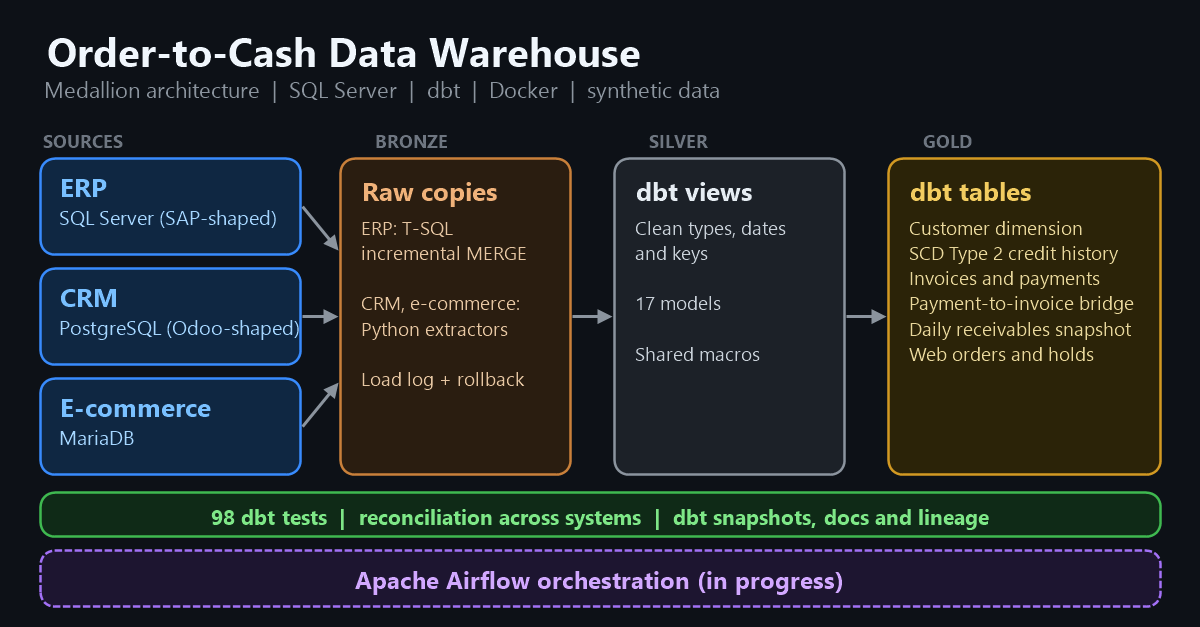
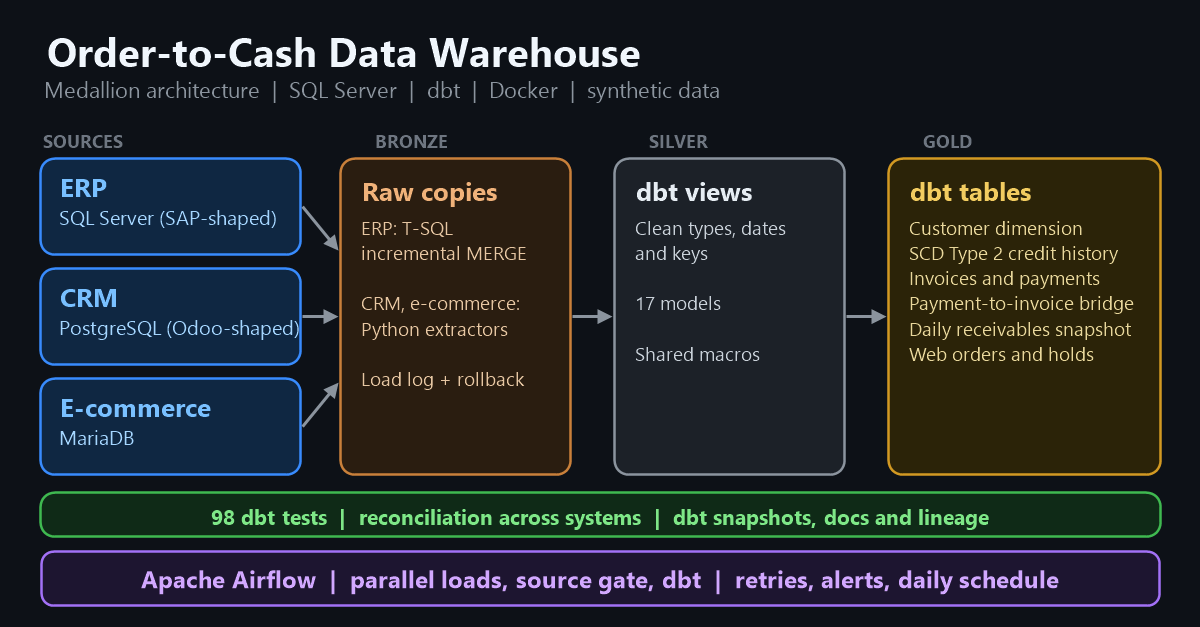
README: document the daily load DAG, tests and CI; update the architecture diagram

Changed region(s): [[0.0308, 0.8788, 0.9867, 0.9697]]

diff --git a/README.md b/README.md
@@ -1,5 +1,7 @@
 # Order-to-Cash Data Warehouse
 
+[![CI](https://github.com/romloc11/order-to-cash-dwh/actions/workflows/ci.yml/badge.svg)](https://github.com/romloc11/order-to-cash-dwh/actions/workflows/ci.yml)
+
 A SQL Server data warehouse built with a **Bronze / Silver / Gold** (medallion) architecture, transformed with **dbt**, and fed by **three source systems on three different engines**: an ERP (SAP-shaped tables, SQL Server), a CRM (Odoo-shaped tables, PostgreSQL) and an e-commerce database (MariaDB).
 
 It starts with the cash end of order-to-cash, **accounts receivable**; sales and logistics are planned as new marts on the same warehouse.
@@ -8,7 +10,7 @@ An **anonymized re-creation** of a data warehouse I built and run at work. It is
 
 Everything here runs locally with Docker.
 
-> **Status: work in progress.** Sources, Bronze, Silver, Gold, tests and documentation are done. Airflow is installed and running with a health-check DAG; **the next step is the DAG that orchestrates the daily load** (three source loads in parallel, then dbt). See the [roadmap](#roadmap).
+> **Status: the core pipeline is complete.** Sources, Bronze, Silver, Gold, tests and documentation are done, and an Airflow DAG runs the daily load on a schedule: three source loads in parallel, a gate on all of them, then `dbt snapshot` and `dbt build`. Airflow runs locally in Docker; in production it would run on an always-on server. What is still open is in the [roadmap](#roadmap).
 
 ## What it demonstrates
 
@@ -26,11 +28,12 @@ Everything here runs locally with Docker.
 | dbt tests, reconciliation tests and failure storage | `dbt/tests/`, `dbt/models/*/_*.yml` |
 | dbt snapshots for attributes the source does not log | `dbt/snapshots/` |
 | Generated documentation and lineage | [dbt documentation site](https://romloc11.github.io/order-to-cash-dwh/dbt/), [docs/lineage.md](docs/lineage.md) |
-| Orchestration with Apache Airflow (in progress) | `airflow/` |
+| Orchestration with Apache Airflow: parallel loads, source gate, dbt, retries, failure alerts, daily schedule | `airflow/dags/` |
+| DAG structure tests (pytest) and CI with GitHub Actions | `tests/`, `.github/workflows/ci.yml` |
 
 ## Architecture
 
-![Architecture: three sources into Bronze, Silver and Gold, with dbt tests and Airflow orchestration in progress](docs/architecture.png)
+![Architecture: three sources into Bronze, Silver and Gold, with dbt tests and Airflow orchestration](docs/architecture.png)
 
 How the Gold tables depend on each other: [docs/lineage.md](docs/lineage.md).
 
@@ -91,7 +94,7 @@ docker compose up -d --build  # generates data, loads the three sources, creates
 
 SQL Server listens on `localhost:1433` (user `sa`), PostgreSQL on `localhost:5432` (database `crm`, user `crm`) and MariaDB on `localhost:3306` (database `ecommerce`, user `root`).
 
-Load Bronze (today by hand; the Airflow DAG will replace these steps):
+Load Bronze by hand (the Airflow DAG below runs these same steps):
 
 ```bash
 docker compose exec sqlserver bash -c '/opt/mssql-tools18/bin/sqlcmd -C -S localhost -U sa -P "$MSSQL_SA_PASSWORD" -d dwh -Q "EXEC bronze.load_erp"'
@@ -118,6 +121,28 @@ Start Airflow (UI at <http://localhost:8080>, no login, local use only):
 docker compose --profile orchestration up -d airflow
 ```
 
+The `dwh_daily_load` DAG runs every day at 06:00 UTC, and you can trigger it from the UI at any time:
+
+```
+load_erp ──┐
+load_crm ──┼──> loads_done ──> verify_sources ──> dbt_snapshot ──> dbt_build
+load_ecommerce ┘
+```
+
+- The three loads run in parallel and are retried twice, 30 seconds apart. They are idempotent, so a retry cannot duplicate data. The dbt steps are not retried, because a failing data test would fail again.
+- `verify_sources` calls `control.verify_sources`, which reads the load log. It fails if a source has no successful load in the last 26 hours.
+- If a task fails after its retries, a line is written to `dwh_alerts.log` in the Airflow logs volume (a stand-in for a Slack or email alert).
+- With the default `all_success` rule, a failed load stops everything after it, so Gold never mixes fresh data from one source with older data from another.
+
+Run the DAG tests (they parse the DAG files and check the shape of the graph; no task is executed). `pytest` is installed inside the container and is lost when the container is recreated:
+
+```bash
+docker compose exec airflow python -m pip install pytest
+docker compose exec -e DAGS_FOLDER=/opt/airflow/dags airflow python -m pytest /opt/airflow/project/tests -q -p no:cacheprovider
+```
+
+The same tests run on GitHub Actions on every push to `main` and on every pull request.
+
 To regenerate the data with different settings:
 
 ```bash
@@ -131,6 +156,9 @@ python -m data_generator.generate --customers 500 --seed 42 --out data_generator
 - **A daily snapshot at customer-day grain.** It makes "what was this customer's balance and credit limit on that day?" a simple lookup, and lets other systems be checked against the ERP on any past date.
 - **Business rules are tested, not stored as columns.** The rule "this order should have been held" lives in tests that compare against what the e-commerce did, rather than in a column of the fact table.
 - **dbt and the extractors live in their own virtualenv inside the Airflow image**, so their dependencies never clash with Airflow's.
+- **A gate that reads results, not task colors.** A green task only means the process ended without an error. While building the DAG, the ERP load showed green in Airflow without writing its load log; the rows only appeared once the procedure's result sets were consumed (`cursor.nextset()`) before the commit. `control.verify_sources` checks the recorded result of each load, so a silent failure stops Gold.
+- **Stop on failure instead of using yesterday's data.** If a load fails after its retries, nothing downstream runs. The alternative (run the gate anyway and accept a recent-enough load) was tested and lets Gold run on one stale source without anyone noticing.
+- **Loads do not use the run's logical date.** Each one loads whatever is new (the ERP procedure re-reads a 7-day window), so a backfill of past days would just repeat today's load. A full ERP reload is available through the procedure's `@full_reload` parameter.
 
 ## How this was built
 
@@ -138,7 +166,6 @@ I used Claude as a tutor and pair programmer, and I want that to be clear.
 
 - **Written by me:** the dbt Gold models (dimensions, facts, the payment application bridge, the daily snapshot and the web-order fact), the shared cleaning macros, the customer snapshot, the singular and reconciliation tests, and four Silver models (`erp_customers`, `erp_customer_credit`, `crm_partners`, `ecommerce_orders`). I can explain every line of them.
 - **Generated or scaffolded by Claude:** the synthetic data generator, the T-SQL control and Bronze layer, the extractor framework, the Docker and Airflow setup, the remaining Silver models, and the column descriptions in the dbt YAML files.
-- **Next:** the Airflow DAGs are mine to write, with Claude reviewing.
 
 ## Roadmap
 
@@ -150,8 +177,9 @@ I used Claude as a tutor and pair programmer, and I want that to be clear.
 - [x] Data tests, reconciliation tests and stored failures
 - [x] dbt snapshots, macros and generated documentation
 - [x] Airflow running in Docker with a health-check DAG
-- [ ] **Airflow DAG for the daily load: three loads in parallel, gate on all of them, then `dbt snapshot` and `dbt build`** (next)
-- [ ] Retries, failure handling and scheduling with backfills
+- [x] Airflow DAG for the daily load: three loads in parallel, gate on all of them, then `dbt snapshot` and `dbt build`
+- [x] Retries, failure alerts and a daily schedule
+- [x] DAG structure tests (pytest)
+- [x] CI with GitHub Actions (runs the DAG tests)
 - [ ] Python tests against the generator's ground truth
-- [ ] CI with GitHub Actions
 - [ ] More business areas as new Gold marts (sales, logistics)
